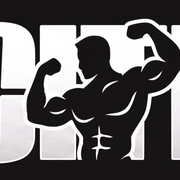
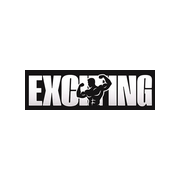
홈 화면 아이콘을 전체 로고로 교체하고 로그인 리캡챠 정렬 수정 (#121)
- 홈 화면 추가 아이콘을 캐릭터만 크롭한 형태에서 EXCITING 전체 로고
  (흰 배경)로 교체해 로고가 잘리지 않고 온전히 보이도록 변경
- 로그인 화면 리캡챠 위젯이 카드 밖으로 넘치던 문제를 compact 크기로
  전환하고 가운데 정렬해 카드 안에 들어오도록 수정

diff --git a/app/admin/login-form.tsx b/app/admin/login-form.tsx
@@ -11,6 +11,7 @@ interface RecaptchaWidget {
       sitekey: string;
       callback: (token: string) => void;
       "expired-callback": () => void;
+      size?: "normal" | "compact";
     },
   ): number;
   reset(widgetId?: number): void;
@@ -52,6 +53,7 @@ export function LoginForm({ recaptchaSiteKey }: { recaptchaSiteKey: string }) {
       sitekey: recaptchaSiteKey,
       callback: (token) => setRecaptchaToken(token),
       "expired-callback": () => setRecaptchaToken(null),
+      size: "compact",
     });
   }, [recaptchaSiteKey]);
 
@@ -115,7 +117,7 @@ export function LoginForm({ recaptchaSiteKey }: { recaptchaSiteKey: string }) {
             className="w-full rounded-lg border border-line bg-white/60 px-3.5 py-2.5 outline-none focus:border-coral focus:ring-1 focus:ring-coral"
           />
         </div>
-        <div ref={recaptchaContainerRef} />
+        <div ref={recaptchaContainerRef} className="flex justify-center" />
         {error && (
           <p className="text-sm text-coral font-medium" role="alert">
             {error}
